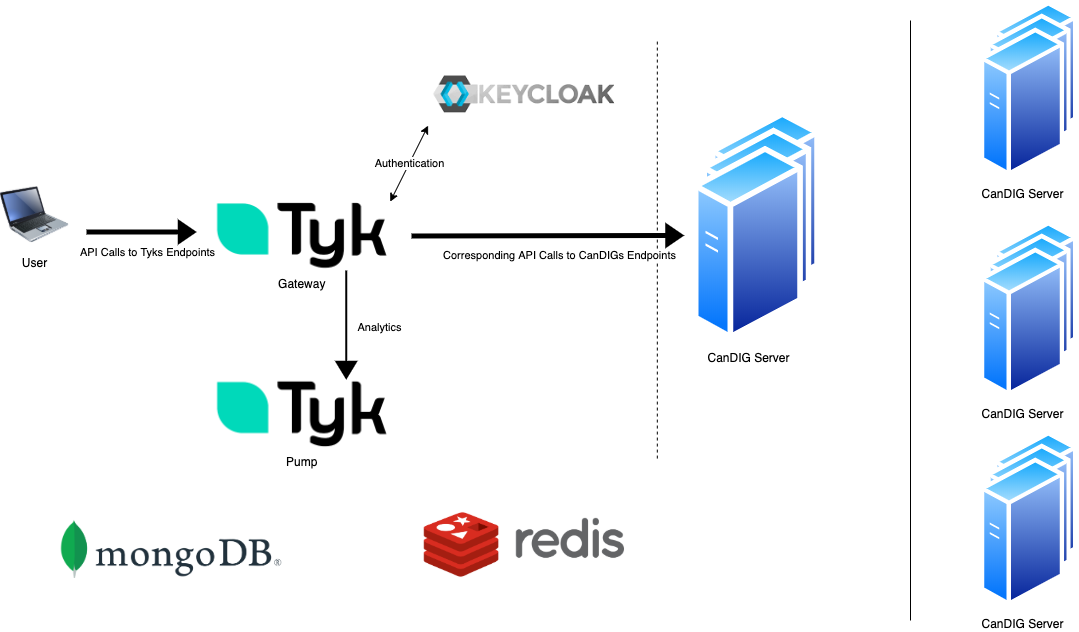
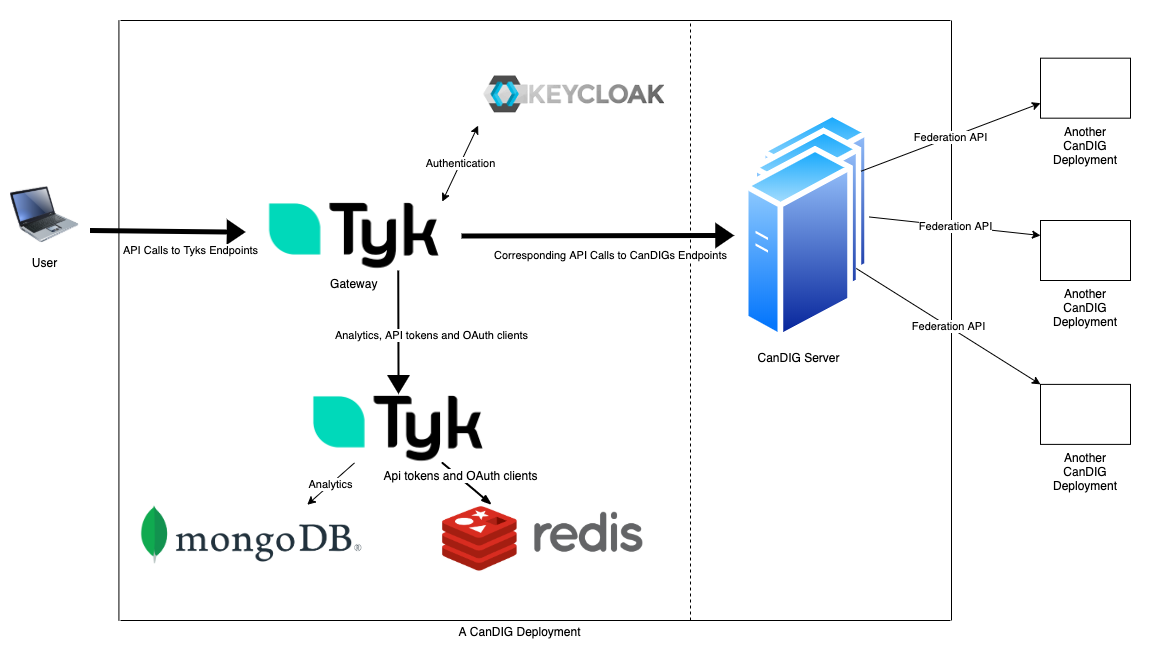
Updated doc and figure based on feedback

diff --git a/Onboarding/TechicalOverview.md b/Onboarding/TechicalOverview.md
@@ -1,30 +1,31 @@
 # CanDIG Technical Onboarding
-## CanDIG Project Overview
-The CanDIG project has a distributed architecture, meaning each site is meant to run their own _____(What do you call everything represented in the diagram together) and there is no centralized CanDIG server. Users can use their local CanDIG _____(^) to communicate with other sites. Every site is responsible for handling the authentication of it's users and the authorization of incoming requests from other sites. CanDIG uses an API driven approach, where users send requests to their CanDIG which communicate with other sites through ...?
-## Component Overview:
+&nbsp;
+## CanDIG Platform Overview
+The CanDIG Platform has a distributed architecture, meaning each site is meant to run their own local CanDIG deployment and there is no centralized CanDIG server. Users can use their local CanDIG deployment to communicate with other sites. Every site is responsible for handling the authentication of it's users and the authorization of incoming requests from other sites. CanDIG uses an API driven approach, where users send requests to their local CanDIG deployment which communicates to other deployments through the Federation API.
+## Component Overview
+&nbsp;
 ### Tyk [Gateway, Pump]
 Tyk Gateway is an API managment platform that CanDIG uses to map API endpoints to endpoints in CanDIG server. When the user makes a request, it is made to Tyk, which forwards the request to the mapped endpoint in CanDIG server.  
 Tyk Pump collects metrics on the use of Gateway and has many methods for transmiting these metrics to various databases.
 ### Keycloak
-Authentication. That's it.?
+Handles authentication.
 ### CanDIG server
-Fasciliates the communication between different sites running CanDIG. What else?
-### mongodb, redis
-Databases. What do they store? Absolutely no idea. Maybe this is what pump goes to?
+Facilitates the communication between different sites running CanDIG. What else?
+### Mongo
+A popular NoSQL database that Tyk uses to store analytics.
+### Redis
+A faster in-memory NoSQL database that Tyk uses to store API tokens and OAuth clients.
 
-## How they interact:
+## How they interact
+&nbsp;
 ![Architecture Diagram](Figures/ArchitectureDiagram.png)
 
 Tyk Gateway maps endpoints from tyk to CanDIG server so that the changing of endpoints is easy and requires no work on the servers side.  
 All authentication is done through Keycloak for SSO and security. If authentication is required, gateway redirects to keycloak via a virtual endpoint to a JS script.  
-Where do mongo and redis come in?
+Tyk Pump takes analytics, API tokens and OAuth clients from Gateway and sends it to mongodb and redis to be stored.
 
 
-Main Questions: 
+Live Questions: 
 1) Anything that has a '?' above
-2) How's the diagram looking?
-3) Level of Detail
-4) How do individual sites communicate, is it as simple as an api call to the other server?
-5) More diagrams?
-6) Should I be playing with Aman's branch now instead due to the dashboard removal
-7) Coming soon to a PR near you.
+2) How do individual sites communicate, is it as simple as an api call to the other server?
+3) Coming soon to a PR near you.
